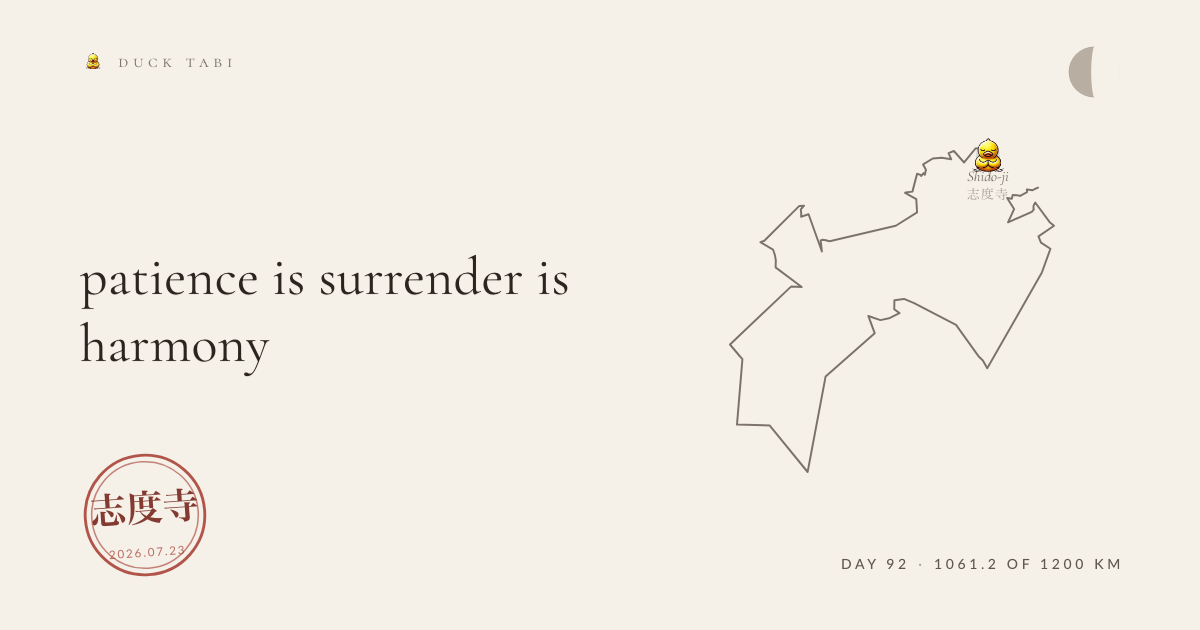
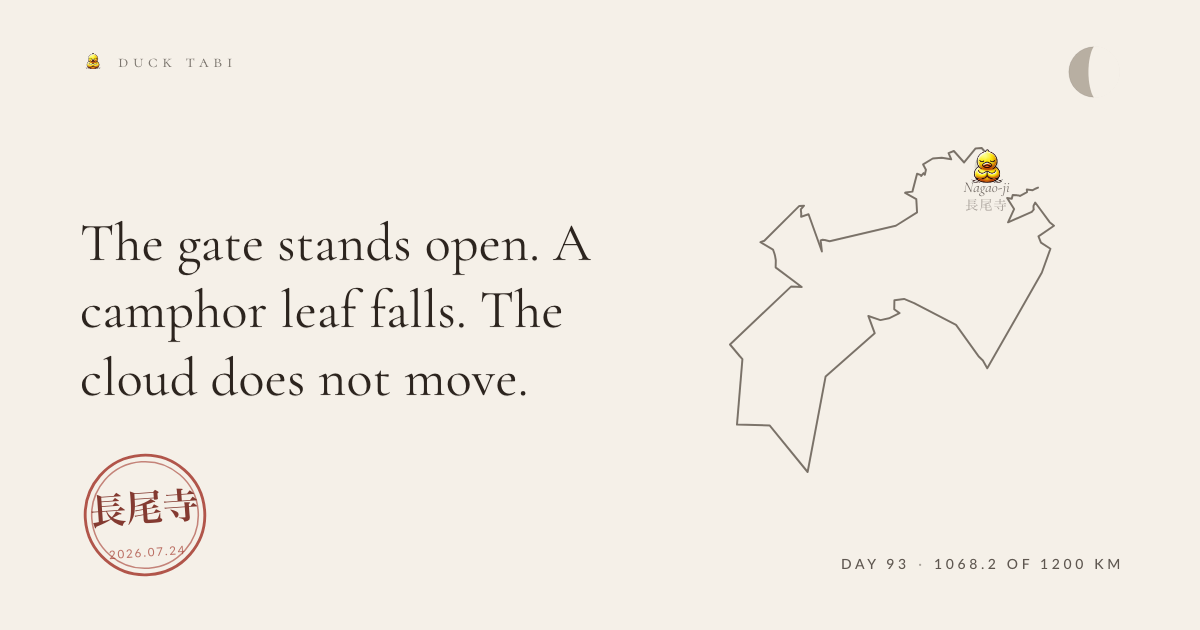
the duck walks

Changed region(s): [[0.0617, 0.3619, 0.4933, 0.6333], [0.0617, 0.7841, 0.1542, 0.8444], [0.8017, 0.2111, 0.8325, 0.3317]]

diff --git a/entries/2026-07-24-nagao-ji.md b/entries/2026-07-24-nagao-ji.md
@@ -1,0 +1,15 @@
+---
+date: '2026-07-24'
+route: shikoku-88
+stage: 87
+stageName: Nagao-ji
+coords: [134.172, 34.267]
+kind: offering
+glyph: ☁
+weather: overcast, 29°C
+kmFromStart: 1068.2
+heard: today's profits are tomorrow's debts
+heardId: c9de7c1c
+---
+
+The gate stands open. A camphor leaf falls. The cloud does not move.
